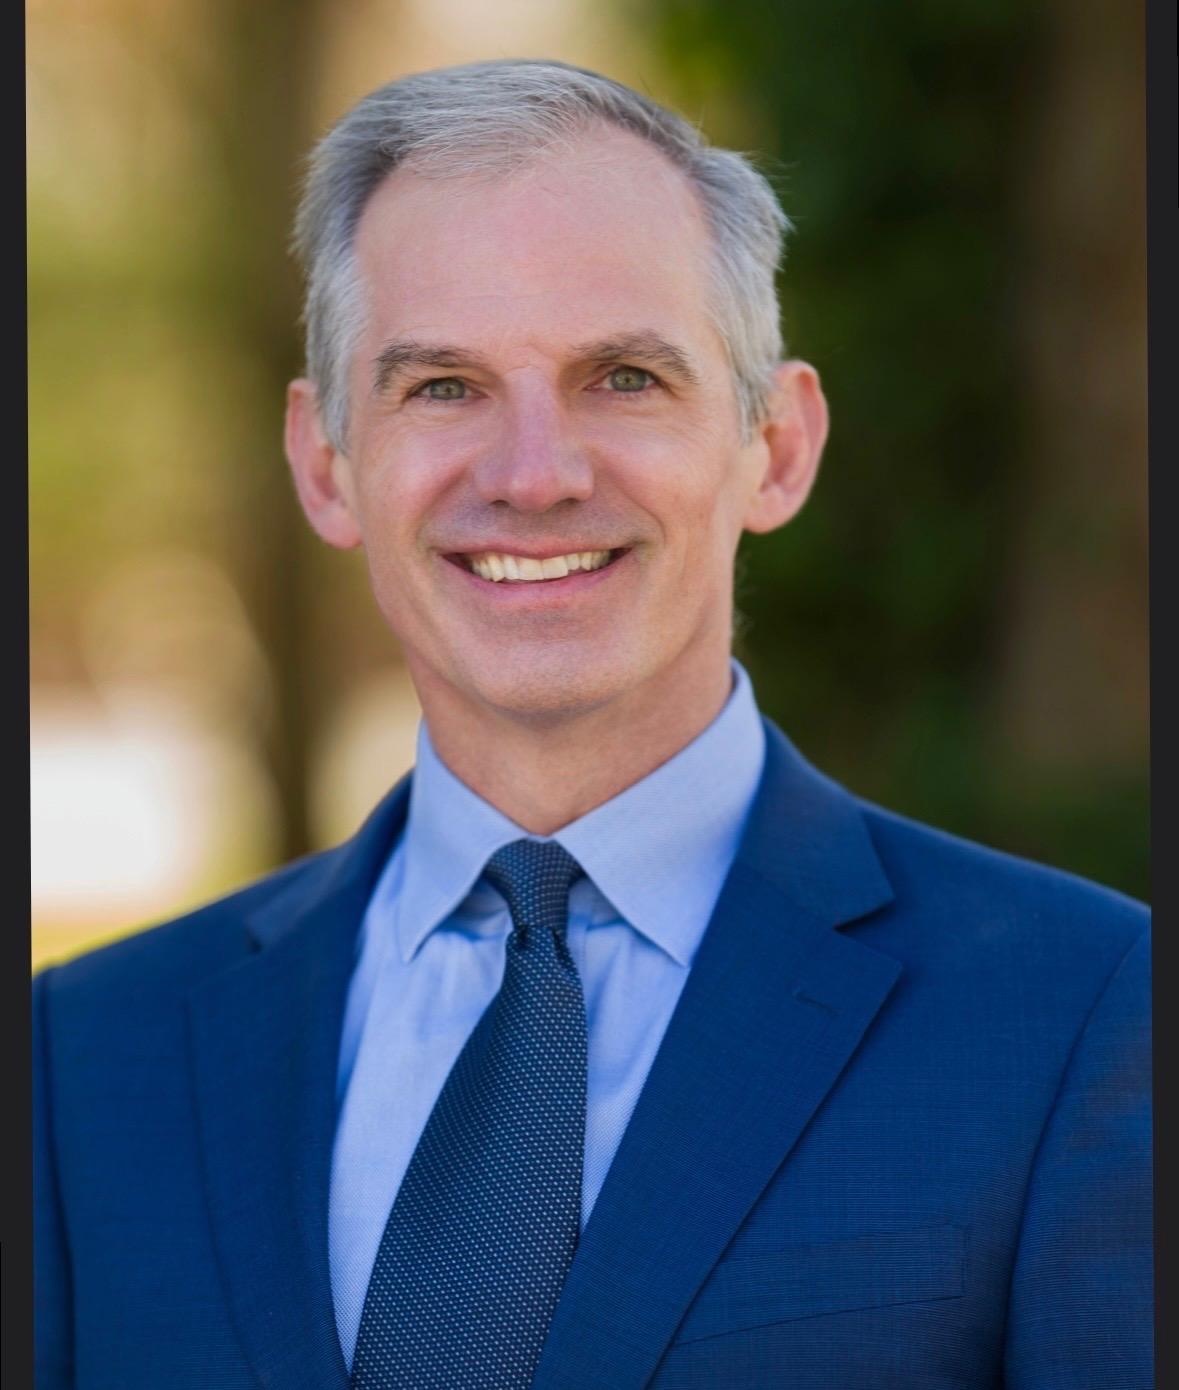
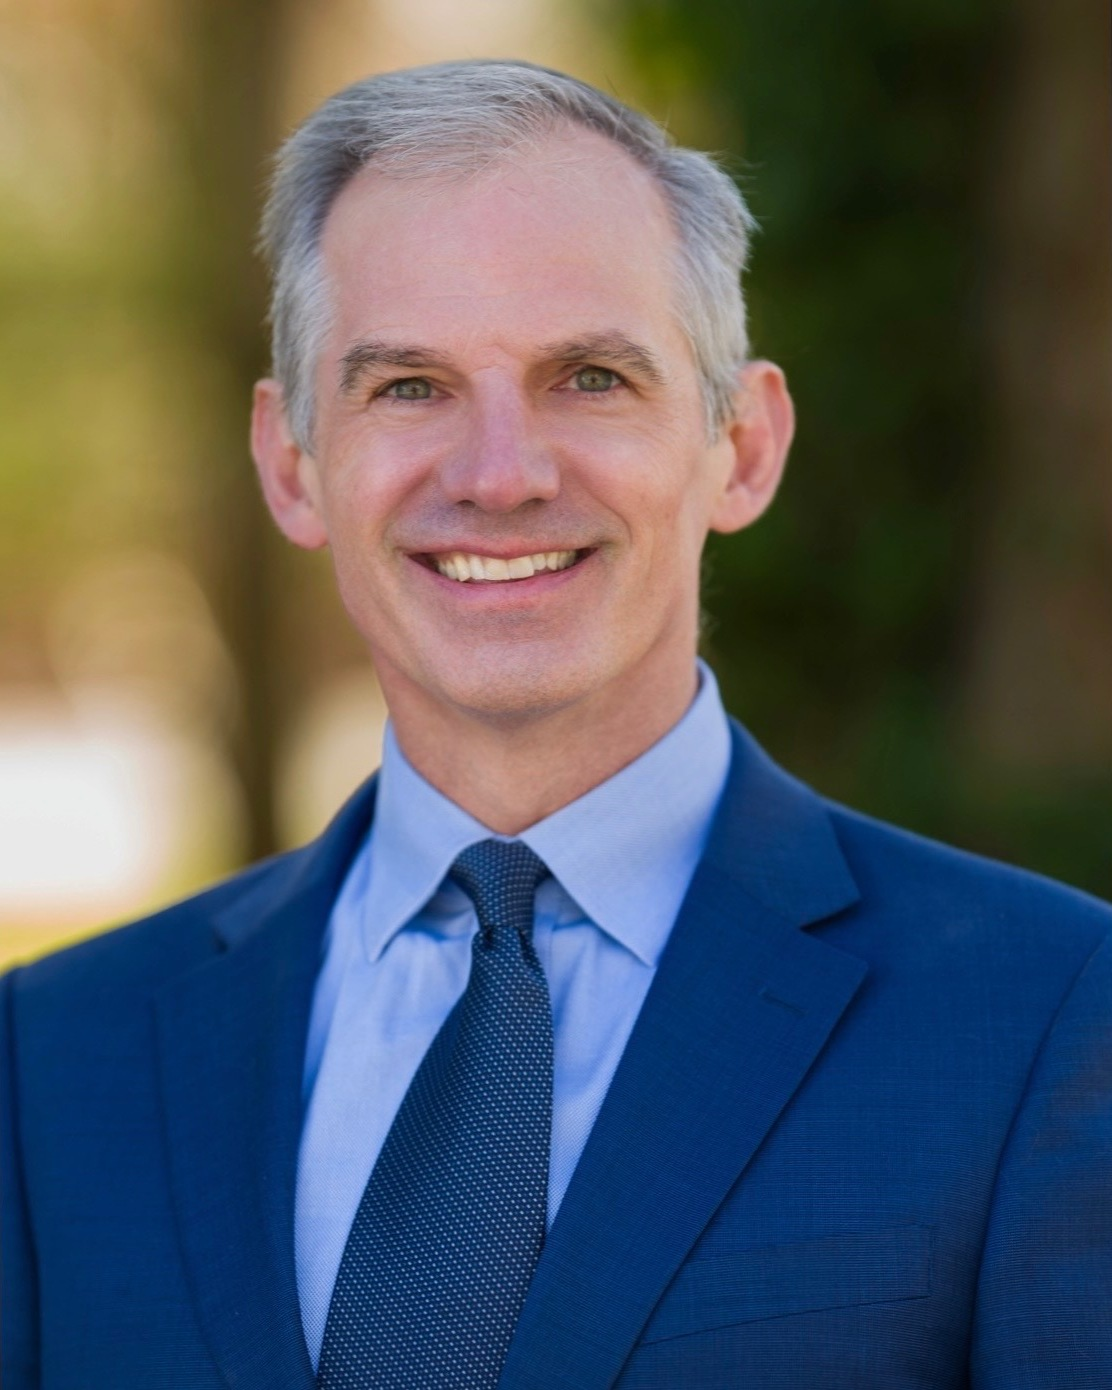
Add provider headshots and standardize photo framing
- Add Robert Friendt and Reece Van Lierop headshots (replace placeholders)
- Crop black bars from Eric Anderson headshot; add extended version for team page
- Lock team/homepage photo cards to fixed aspect ratios so crops stay
  consistent across screen sizes
- Tune per-photo zoom/position so heads are aligned and evenly sized

diff --git a/team.html b/team.html
@@ -110,10 +110,10 @@
       <div class="grid grid-cols-1 lg:grid-cols-[2fr_3fr] gap-16 items-start">
 
         <div>
-          <div class="overflow-hidden border border-rp-stone mb-6" style="height:420px;">
-            <img src="Eric Anderson Headshot.JPEG"
+          <div class="overflow-hidden border border-rp-stone mb-6" style="aspect-ratio:4/5;">
+            <img src="Eric%20Anderson%20Headshot_ext.JPEG"
                  alt="Dr. Eric Anderson, MD"
-                 style="width:100%; height:100%; object-fit:cover; object-position:top;" />
+                 style="width:100%; height:100%; object-fit:cover; object-position:center 49%; transform:scale(1.22);" />
           </div>
           <div class="bg-white border border-rp-stone p-5">
             <div class="font-raleway text-[10px] font-bold tracking-[0.35em] text-rp-primary uppercase mb-3">Credentials</div>
@@ -189,10 +189,10 @@
       <div class="grid grid-cols-1 lg:grid-cols-[2fr_3fr] gap-16 items-start">
 
         <div>
-          <div class="overflow-hidden border border-rp-stone mb-6" style="height:420px;">
-            <div class="w-full h-full flex items-center justify-center" style="background-color:#E6E7E2;">
-              <span class="font-raleway text-xs font-bold tracking-[0.3em] uppercase" style="color:rgba(34,34,34,0.3);">Photo Coming Soon</span>
-            </div>
+          <div class="overflow-hidden border border-rp-stone mb-6" style="aspect-ratio:4/5;">
+            <img src="Robert%20Friendt%20Pic.JPG"
+                 alt="Dr. Robert Friendt, DC"
+                 style="width:100%; height:100%; object-fit:cover; object-position:center 52%; transform:scale(2.4);" />
           </div>
           <div class="bg-white border border-rp-stone p-5">
             <div class="font-raleway text-[10px] font-bold tracking-[0.35em] text-rp-primary uppercase mb-3">Credentials</div>
@@ -267,10 +267,10 @@
       <div class="grid grid-cols-1 lg:grid-cols-[2fr_3fr] gap-16 items-start">
 
         <div>
-          <div class="overflow-hidden border border-rp-stone mb-6" style="height:420px;">
-            <div class="w-full h-full flex items-center justify-center" style="background-color:#E6E7E2;">
-              <span class="font-raleway text-xs font-bold tracking-[0.3em] uppercase" style="color:rgba(34,34,34,0.3);">Photo Coming Soon</span>
-            </div>
+          <div class="overflow-hidden border border-rp-stone mb-6" style="aspect-ratio:4/5;">
+            <img src="Reece%20Van%20LIerop%20Pic.JPG"
+                 alt="Reece Van Lierop"
+                 style="width:100%; height:100%; object-fit:cover; object-position:center 58%; transform:scale(2.45);" />
           </div>
           <div class="bg-rp-warm border border-rp-stone p-5">
             <div class="font-raleway text-[10px] font-bold tracking-[0.35em] text-rp-primary uppercase mb-3">Credentials</div>

diff --git a/index.html b/index.html
@@ -658,10 +658,10 @@
       <div class="grid grid-cols-1 sm:grid-cols-2 lg:grid-cols-3 gap-5">
 
         <div class="border border-rp-stone hover:border-rp-primary transition-colors duration-200 overflow-hidden">
-          <div class="h-64 overflow-hidden">
+          <div class="overflow-hidden" style="aspect-ratio:3/2;">
             <img src="Eric Anderson Headshot.JPEG"
                  alt="Dr. Eric Anderson, MD"
-                 style="width:100%; height:100%; object-fit:cover; object-position:top;" />
+                 style="width:100%; height:100%; object-fit:cover; object-position:center 18%; transform:scale(1.08);" />
           </div>
           <div class="bg-white p-7">
             <div class="font-raleway text-[10px] font-bold tracking-[0.3em] text-rp-primary uppercase mb-2">Sports Medicine</div>
@@ -674,8 +674,10 @@
         </div>
 
         <div class="border border-rp-stone hover:border-rp-primary transition-colors duration-200 overflow-hidden">
-          <div class="w-full flex items-center justify-center" style="height:256px; background-color:#E6E7E2;">
-            <span class="font-raleway text-xs font-bold tracking-[0.3em] uppercase" style="color:rgba(34,34,34,0.3);">Photo Coming Soon</span>
+          <div class="overflow-hidden" style="aspect-ratio:3/2;">
+            <img src="Robert%20Friendt%20Pic.JPG"
+                 alt="Dr. Robert Friendt, DC"
+                 style="width:100%; height:100%; object-fit:cover; object-position:center 40%; transform:scale(2.2);" />
           </div>
           <div class="bg-white p-7">
             <div class="font-raleway text-[10px] font-bold tracking-[0.3em] text-rp-primary uppercase mb-2">Manual Therapy &amp; Corrective Exercise</div>
@@ -688,8 +690,10 @@
         </div>
 
         <div class="border border-rp-stone hover:border-rp-primary transition-colors duration-200 overflow-hidden">
-          <div class="w-full flex items-center justify-center" style="height:256px; background-color:#E6E7E2;">
-            <span class="font-raleway text-xs font-bold tracking-[0.3em] uppercase" style="color:rgba(34,34,34,0.3);">Photo Coming Soon</span>
+          <div class="overflow-hidden" style="aspect-ratio:3/2;">
+            <img src="Reece%20Van%20LIerop%20Pic.JPG"
+                 alt="Reece Van Lierop"
+                 style="width:100%; height:100%; object-fit:cover; object-position:center 46%; transform:scale(2.1);" />
           </div>
           <div class="bg-white p-7">
             <div class="font-raleway text-[10px] font-bold tracking-[0.3em] text-rp-primary uppercase mb-2">Rehabilitation</div>
